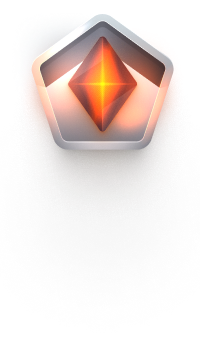
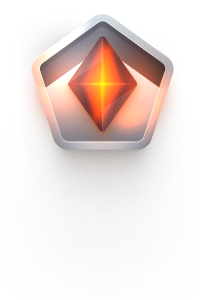
UBERF-9716: Add achievement header and refactor

Changed region(s): [[0.15, 0.03, 0.87, 0.6]]

diff --git a/plugins/contact-resources/src/components/person/AchievementsPresenter.svelte b/plugins/contact-resources/src/components/person/AchievementsPresenter.svelte
@@ -1,10 +1,26 @@
+<!--
+// Copyright © 2025 Hardcore Engineering Inc.
+//
+// Licensed under the Eclipse Public License, Version 2.0 (the "License");
+// you may not use this file except in compliance with the License. You may
+// obtain a copy of the License at https://www.eclipse.org/legal/epl-2.0
+//
+// Unless required by applicable law or agreed to in writing, software
+// distributed under the License is distributed on an "AS IS" BASIS,
+// WITHOUT WARRANTIES OR CONDITIONS OF ANY KIND, either express or implied.
+//
+// See the License for the specific language governing permissions and
+// limitations under the License.
+-->
 <script lang="ts">
   import contact, { Employee } from '@hcengineering/contact'
   import { getMetadata } from '@hcengineering/platform'
   import { Ref } from '@hcengineering/core'
   import { Image } from '@hcengineering/ui'
+  import AchievementsHeader from './AchievementsHeader.svelte'
 
   export let personId: Ref<Employee>
+  export let withHeader: boolean = true
 
   const possibleAchievements = [contact.image.Achievement1, contact.image.Achievement2, contact.image.Achievement3]
 
@@ -22,29 +38,26 @@
 
   $: personHash = hashStringToInt(personId)
   $: personAchievements = possibleAchievements.filter((_, index) => {
-    return personHash % (index + 1) === 0
+    return true
   })
 </script>
 
+{#if withHeader}
+  <AchievementsHeader />
+{/if}
+
 <div class="achievements">
   {#each personAchievements as achievement}
-    <Image src={getMetadata(achievement)} width="40px" height="80px" />
+    <Image src={getMetadata(achievement)} width="40px" height="60px" />
   {/each}
 </div>
 
 <style lang="scss">
   .achievements {
     display: flex;
-    flex-direction: row;
-    align-items: flex-start;
-    padding: 0px 8px 8px;
+    flex-wrap: wrap;
+    padding: 10px 8px 0px 8px;
 
-    height: 48px;
-
-    /* Inside auto layout */
-    flex: none;
     order: 1;
-    align-self: stretch;
-    flex-grow: 0;
   }
 </style>

diff --git a/plugins/contact-resources/src/components/person/AchievementsHeader.svelte b/plugins/contact-resources/src/components/person/AchievementsHeader.svelte
@@ -1,0 +1,37 @@
+<!--
+// Copyright © 2025 Hardcore Engineering Inc.
+//
+// Licensed under the Eclipse Public License, Version 2.0 (the "License");
+// you may not use this file except in compliance with the License. You may
+// obtain a copy of the License at https://www.eclipse.org/legal/epl-2.0
+//
+// Unless required by applicable law or agreed to in writing, software
+// distributed under the License is distributed on an "AS IS" BASIS,
+// WITHOUT WARRANTIES OR CONDITIONS OF ANY KIND, either express or implied.
+//
+// See the License for the specific language governing permissions and
+// limitations under the License.
+-->
+<script lang="ts">
+  import contact from '@hcengineering/contact'
+  import { Label } from '@hcengineering/ui'
+</script>
+
+<div class="header-container gap-2 px-4">
+  <span class="text-md font-normal content-color">
+    <Label label={contact.string.Achievements} />
+  </span>
+  <div class="divider" />
+</div>
+
+<style>
+  .header-container {
+    display: flex;
+    padding: 0 12px;
+    align-items: center;
+  }
+  .divider {
+    width: 100%;
+    border-top: 1px solid var(--theme-divider-color);
+  }
+</style>

diff --git a/plugins/contact-resources/src/components/person/DeactivatedHeader.svelte b/plugins/contact-resources/src/components/person/DeactivatedHeader.svelte
@@ -1,3 +1,17 @@
+<!--
+// Copyright © 2025 Hardcore Engineering Inc.
+//
+// Licensed under the Eclipse Public License, Version 2.0 (the "License");
+// you may not use this file except in compliance with the License. You may
+// obtain a copy of the License at https://www.eclipse.org/legal/epl-2.0
+//
+// Unless required by applicable law or agreed to in writing, software
+// distributed under the License is distributed on an "AS IS" BASIS,
+// WITHOUT WARRANTIES OR CONDITIONS OF ANY KIND, either express or implied.
+//
+// See the License for the specific language governing permissions and
+// limitations under the License.
+-->
 <script lang="ts">
   import { Label } from '@hcengineering/ui'
   import contact from '@hcengineering/contact'

diff --git a/plugins/contact-resources/src/components/person/EmployeePreview.svelte b/plugins/contact-resources/src/components/person/EmployeePreview.svelte
@@ -82,7 +82,9 @@
           </span>
         </div>
       </div>
-      <AchievementsPresenter personId={employeeId} />
+      <div class="py-1">
+        <AchievementsPresenter personId={employeeId} />
+      </div>
     {:else}
       <div class="flex-presenter flex-gap-2 p-2">
         <Avatar size="large" person={employee} name={employee.name} {disabled} style="modern" />

diff --git a/plugins/contact/src/index.ts b/plugins/contact/src/index.ts
@@ -336,7 +336,8 @@ export const contactPlugin = plugin(contactId, {
     Type: '' as IntlString,
     Confirmed: '' as IntlString,
     UserProfile: '' as IntlString,
-    DeactivatedAccount: '' as IntlString
+    DeactivatedAccount: '' as IntlString,
+    Achievements: '' as IntlString
   },
   viewlet: {
     TableMember: '' as Ref<Viewlet>,

diff --git a/plugins/contact-resources/src/components/person/ModernProfilePopup.svelte b/plugins/contact-resources/src/components/person/ModernProfilePopup.svelte
@@ -53,6 +53,7 @@
     padding-left: 4px;
     isolation: isolate;
     order: 0;
+    width: 100%;
 
     .main-container {
       padding: 16px 0;
@@ -74,7 +75,7 @@
 
   .image-container {
     /* image-container */
-    width: 360px;
+    width: 100%;
     min-height: 144px;
     display: flex;
 

diff --git a/plugins/contact-resources/src/components/person/Avatar.svelte b/plugins/contact-resources/src/components/person/Avatar.svelte
@@ -1,5 +1,5 @@
 <!--
-// Copyright © 2020 Anticrm Platform Contributors.
+// Copyright © 2025 Hardcore Engineering Inc.
 //
 // Licensed under the Eclipse Public License, Version 2.0 (the "License");
 // you may not use this file except in compliance with the License. You may

diff --git a/plugins/contact-resources/src/components/person/AvatarInstance.svelte b/plugins/contact-resources/src/components/person/AvatarInstance.svelte
@@ -1,5 +1,5 @@
 <!--
-// Copyright © 2020 Anticrm Platform Contributors.
+// Copyright © 2025 Hardcore Engineering Inc.
 //
 // Licensed under the Eclipse Public License, Version 2.0 (the "License");
 // you may not use this file except in compliance with the License. You may
